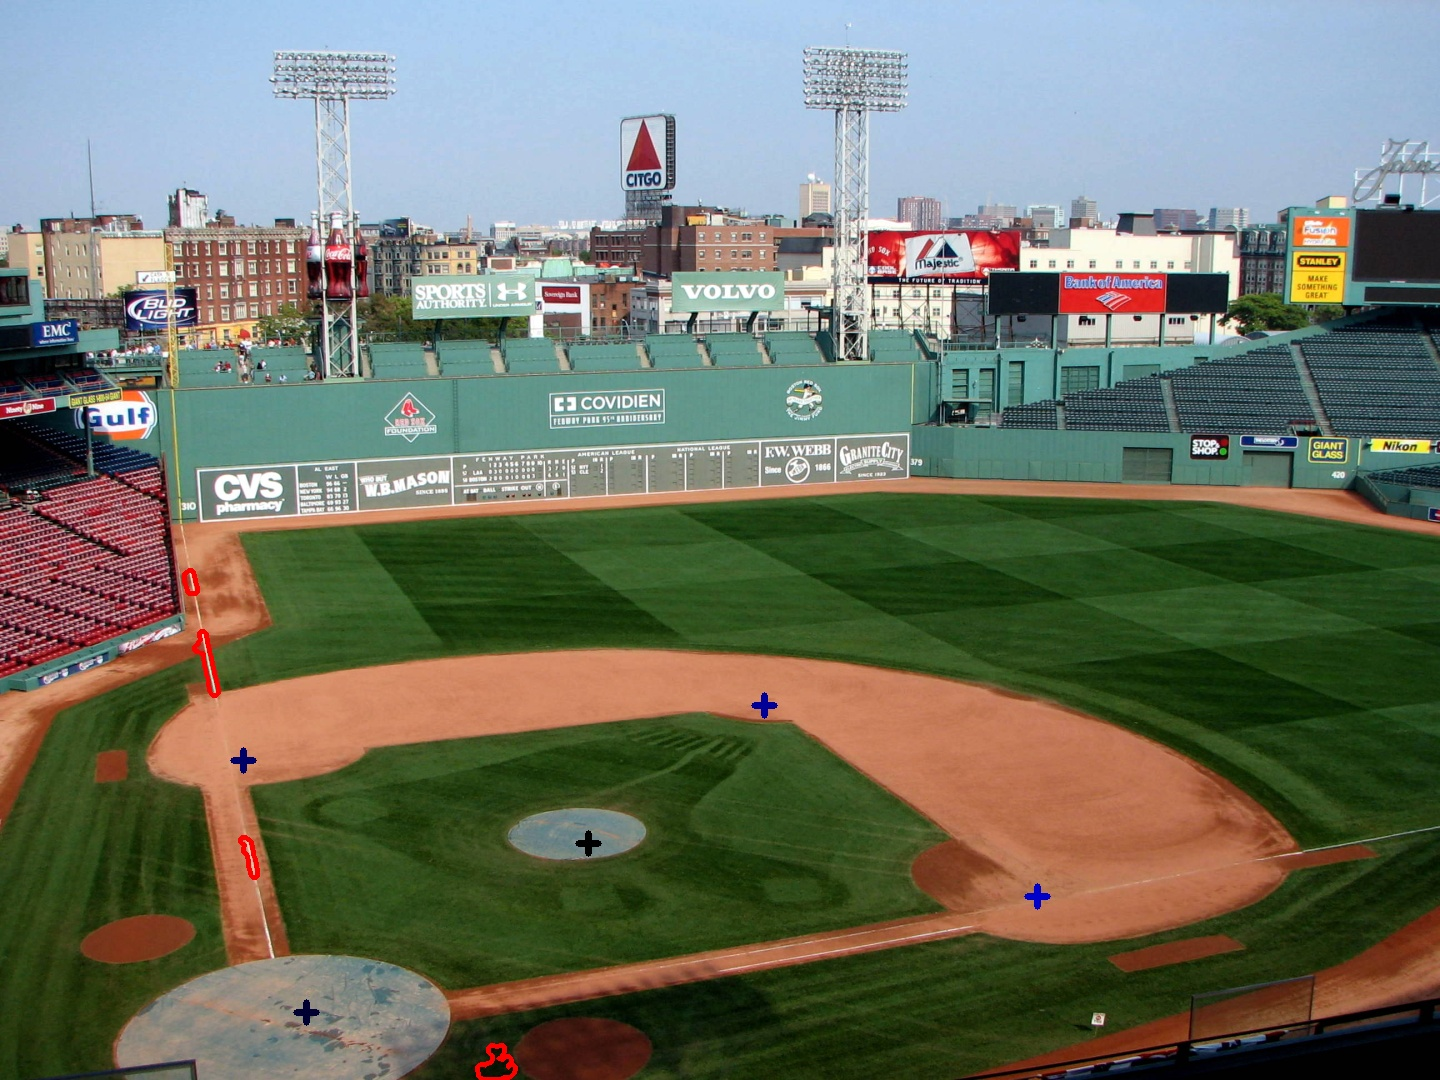
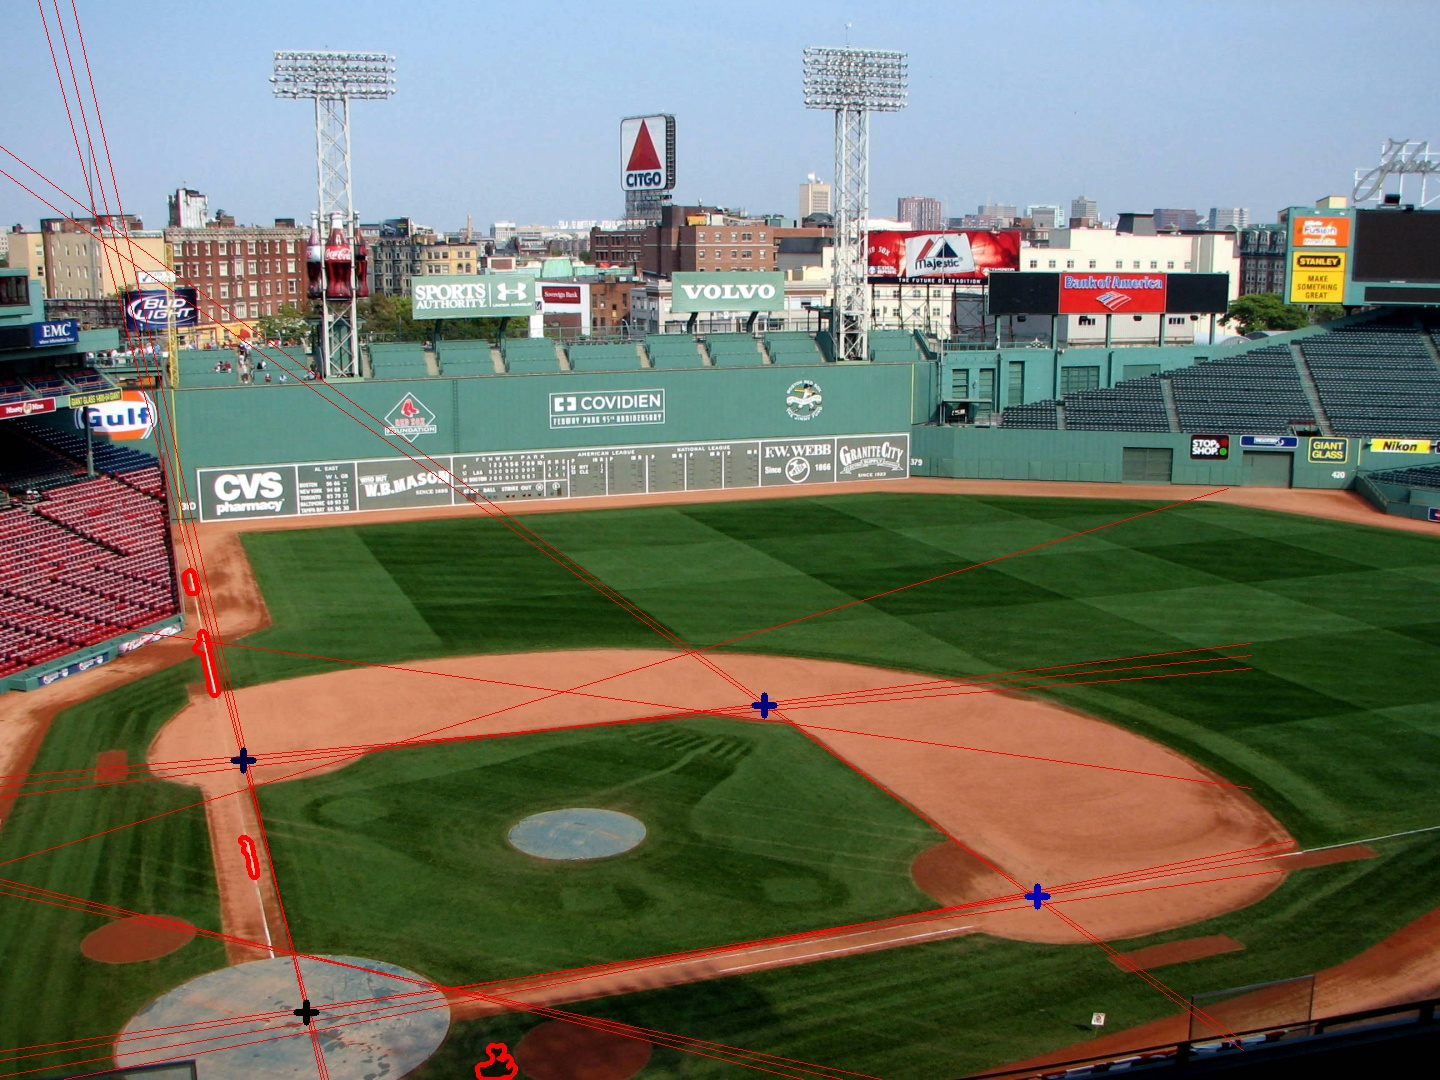
infield fitting updated

diff --git a/TestPersonDetection/personDetectionTesting.py b/TestPersonDetection/personDetectionTesting.py
@@ -134,7 +134,9 @@ class PlayerFinder(object):
         if cnrs is None:
             return None
 
-        pitcher_mound_x = (cnrs[0][0] + cnrs[1][0] + cnrs[2][0] + cnrs[3][0]) / 4
+        self.positions = cnrs.astype(int)
+
+        """pitcher_mound_x = (cnrs[0][0] + cnrs[1][0] + cnrs[2][0] + cnrs[3][0]) / 4
         pitcher_mound_y = (cnrs[0][1] + cnrs[1][1] + cnrs[2][1] + cnrs[3][1]) / 4
 
         da = 361    #delta angle
@@ -168,7 +170,7 @@ class PlayerFinder(object):
         self.positions.append(self.infield_cnrs[first])
         self.positions.append(self.infield_cnrs[second])
         self.positions.append(self.infield_cnrs[third])
-        #print(self.positions)
+        #print(self.positions)"""
 
         return image
             
@@ -221,8 +223,6 @@ class PlayerFinder(object):
             if self.isCandidatePlayerOnField(candidate['center'], field):
                 self.players.append(candidate['contour'])
         
-        print("#: " + str(len(self.players)))
-
         self.top_players = [x['contour'] for x in self.top_players]
 
     def isCandidatePlayerOnField(self, candidateCenterPt, fieldInfo):
@@ -276,7 +276,7 @@ class PlayerFinder(object):
         '''Best fit of a quadrilateral to the contour'''
 
         approx = infieldFittingRoutines.approxPolyDP_adaptive(contour, nsides=4)
-        return infieldFittingRoutines.hough_fit(contour, nsides=4, approx_fit=approx, image_frame=image_frame)
+        return infieldFittingRoutines.hough_fit(contour, nsides=4, approx_fit=None, image_frame=image_frame)
 
     def prepare_output_image(self, input_frame):
         '''Prepare output image for drive station. Draw the found target contour.'''

diff --git a/TestPersonDetection/infieldFittingRoutines.py b/TestPersonDetection/infieldFittingRoutines.py
@@ -52,7 +52,7 @@ def hough_fit(contour, nsides=None, approx_fit=None, image_frame=None):
 
     if res is None:
         return get_cnrs_using_extreme_pts(contour)
-    
+
     return array(res) + offset_vec
 
 
@@ -222,15 +222,15 @@ def _find_sides(nsides, hough_lines, w, h):
     #  each cluster.
 
     contour_center = (w / 2, h / 2)
-    boundaries = (-50, w+50, -50, h+50)
+    boundaries = (-100, w+100, -100, h+100)
 
     dist_thres = 10
-    theta_thres = pi / 36  # 5 degrees
+    theta_thres = pi / 9  # 5 degrees
     best_lines = []
     for linelist in hough_lines:
         line = linelist[0]
         if line[0] < 0:
-            line[0] *= -1
+            line[0] *= -1       #flip the line to be a positive distance
             line[1] -= pi
 
         coord_near_ref = _compute_line_near_reference(line, contour_center)
@@ -277,11 +277,13 @@ def _find_sides(nsides, hough_lines, w, h):
 
     # add in the last pair
     inter = _intersection(best_lines[0][0], best_lines[iline1][0])
+
     if inter is not None and \
        inter[0] >= boundaries[0] and inter[0] <= boundaries[1] and \
        inter[1] >= boundaries[2] and inter[1] <= boundaries[3]:
         vertices.append(inter)
-
+    
+    #return vertices
     if len(vertices) != nsides:
         # print('Not correct number of vertices:', len(vertices))
         return None
